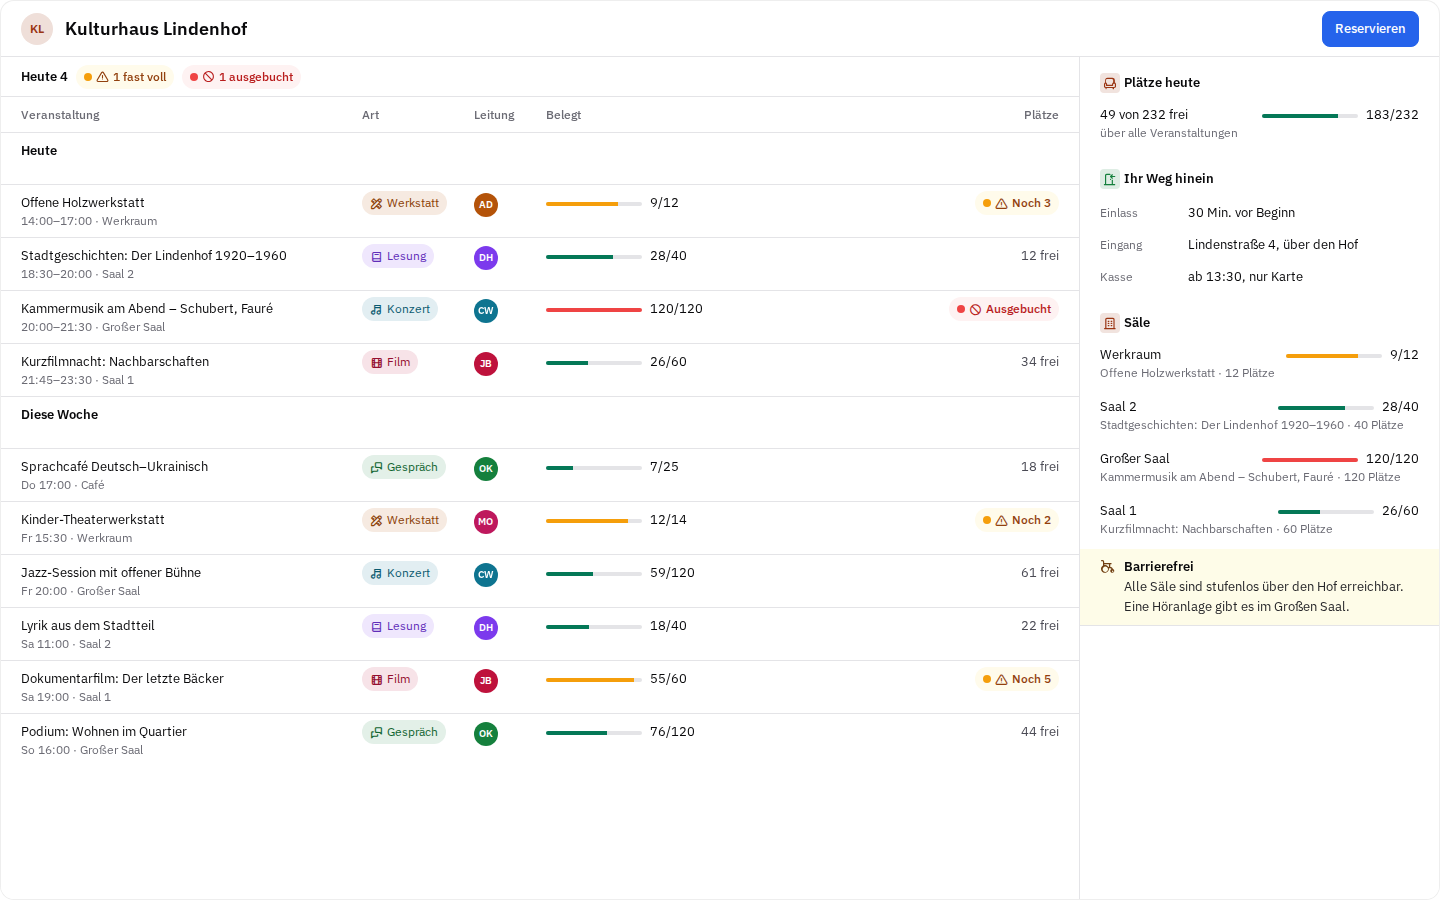
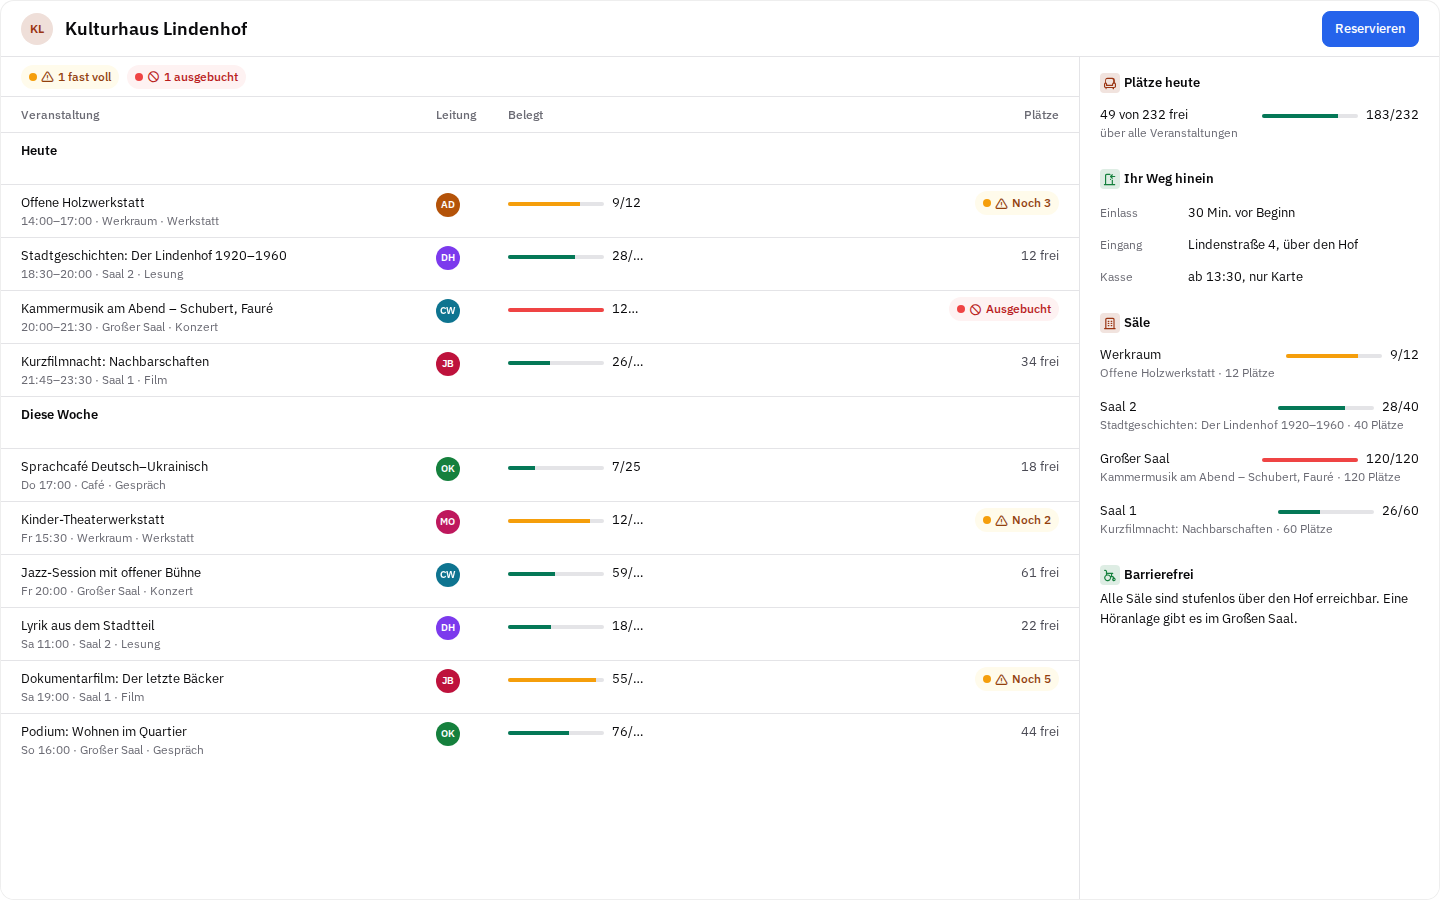
feat(ui): the public page recipe keeps its titles at 1024, counts the day once and gives access its own section

diff --git a/packages/ui/skills/k2b-ui/recipes/public-page.tsx b/packages/ui/skills/k2b-ui/recipes/public-page.tsx
@@ -168,17 +168,7 @@ const programme = (events: Listed[]) => (
     columns={[
       {
         title: "Veranstaltung",
-        cell: (event) => ({ lines: [event.title, `${event.time} · ${event.room}`] }),
-      },
-      {
-        title: "Art",
-        width: { min: 100, default: 112, fixed: true },
-        drop: true,
-        cell: (event) => (
-          <Chip tag color={kinds[event.kind].color} icon={kinds[event.kind].icon}>
-            {kinds[event.kind].label}
-          </Chip>
-        ),
+        cell: (event) => ({ lines: [event.title, `${event.time} · ${event.room} · ${kinds[event.kind].label}`] }),
       },
       {
         title: "Leitung",
@@ -188,7 +178,7 @@ const programme = (events: Listed[]) => (
       },
       {
         title: "Belegt",
-        width: { min: 172, default: 196, fixed: true },
+        width: { min: 150, default: 160, fixed: true },
         drop: true,
         cell: (event) => (
           <Progress
@@ -242,7 +232,11 @@ export default function VenueProgramme(props: Props) {
             <Bar
               start={
                 <Inline>
-                  <Text weight="strong">{props.kiosk ? "Jetzt: Offene Holzwerkstatt · Werkraum" : `Heute ${events().length}`}</Text>
+                  <Show when={props.kiosk || (almost() === 0 && full() === 0)}>
+                    <Text weight="strong">
+                      {props.kiosk ? "Jetzt: Offene Holzwerkstatt · Werkraum" : `Heute ${events().length} Veranstaltungen`}
+                    </Text>
+                  </Show>
                   <Show when={almost() > 0}>
                     <Chip status="warn" icon="alert-triangle">{`${almost()} fast voll`}</Chip>
                   </Show>
@@ -308,9 +302,9 @@ export default function VenueProgramme(props: Props) {
             </Section>
           </Show>
           <Show when={!props.kiosk}>
-            <Notice tone="note" icon="wheelchair" title="Barrierefrei">
-              Alle Säle sind stufenlos über den Hof erreichbar. Eine Höranlage gibt es im Großen Saal.
-            </Notice>
+            <Section icon="wheelchair" color="#15803d" title="Barrierefrei">
+              <Text>Alle Säle sind stufenlos über den Hof erreichbar. Eine Höranlage gibt es im Großen Saal.</Text>
+            </Section>
           </Show>
         </Pane>
       </Pane.Split>

diff --git a/packages/ui/skills/k2b-ui/references/recipes.md b/packages/ui/skills/k2b-ui/references/recipes.md
@@ -254,10 +254,11 @@ venue's programme, a public form, a share). In Cloud it stands in
 `MinimalLayout ui="v2"`. A head `Bar` with the brand as `RecordHead` (its
 initials on its colour) and the one task as the primary with `keep` and short
 words, so on a phone the brand and the task share one row and nothing floats
-over a row; the status row as one statement with toned chips ("1 fast voll",
-"1 ausgebucht"), never the figures a column repeats. The programme is one
-`Table` grouped by day: the event with when and where, its type as a
-`Chip tag` in its colour, its host as `Avatar` (every event has one, so every
+over a row; the status row names what asks to act as toned chips ("1 fast
+voll", "1 ausgebucht"), and only on a quiet day the day's count, never the
+figures a group head or a column repeats. The programme is one
+`Table` grouped by day: the event with when, where and its type (the title
+keeps the room at 1024), its host as `Avatar` (every event has one, so every
 phone row leads with a mark and the text edge never jumps), the seats taken
 as `Progress` (a value with a limit gets a meter), and the seats: a `Chip`
 with colour, sign and word only for the exceptions (booked out, almost full),
@@ -265,7 +266,7 @@ quiet words for the rest. A page to read has no grips: its columns and its
 side column keep a `fixed` width. On the phone each event is a row of two lines
 with its seats, and a day is a plain group head. A `Pane side` holds the
 visit: free places as a meter, the way in as `Facts`, the rooms with their
-load, and access as a `Notice`. `states` exports kiosk (the same page on a
+load, and access as a `Section` of its own (good news is no notice). `states` exports kiosk (the same page on a
 wall screen: no task, what runs now first, what comes next in the side
 column, "aktualisiert sich jede Minute" in the head), empty and failed.
 
